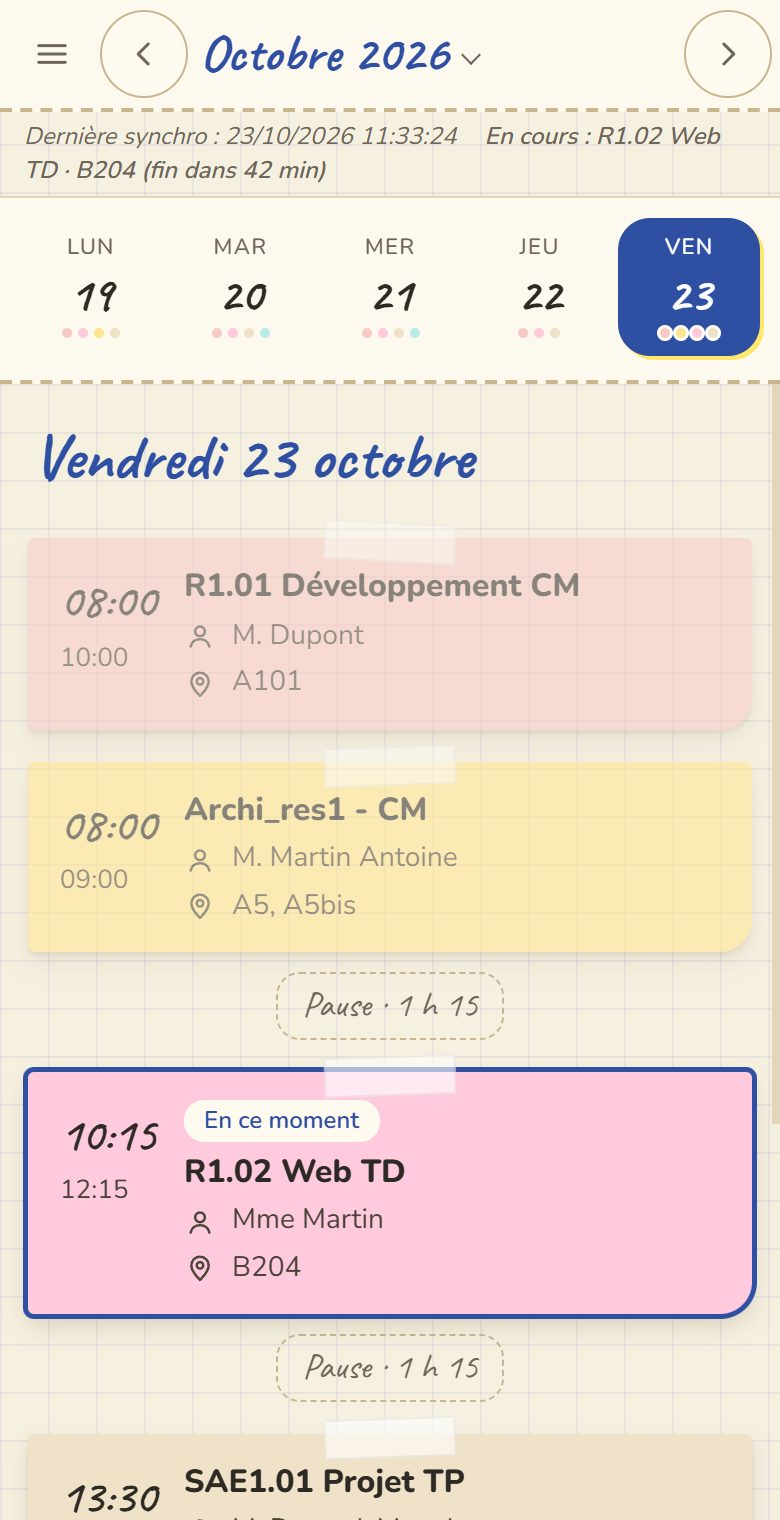
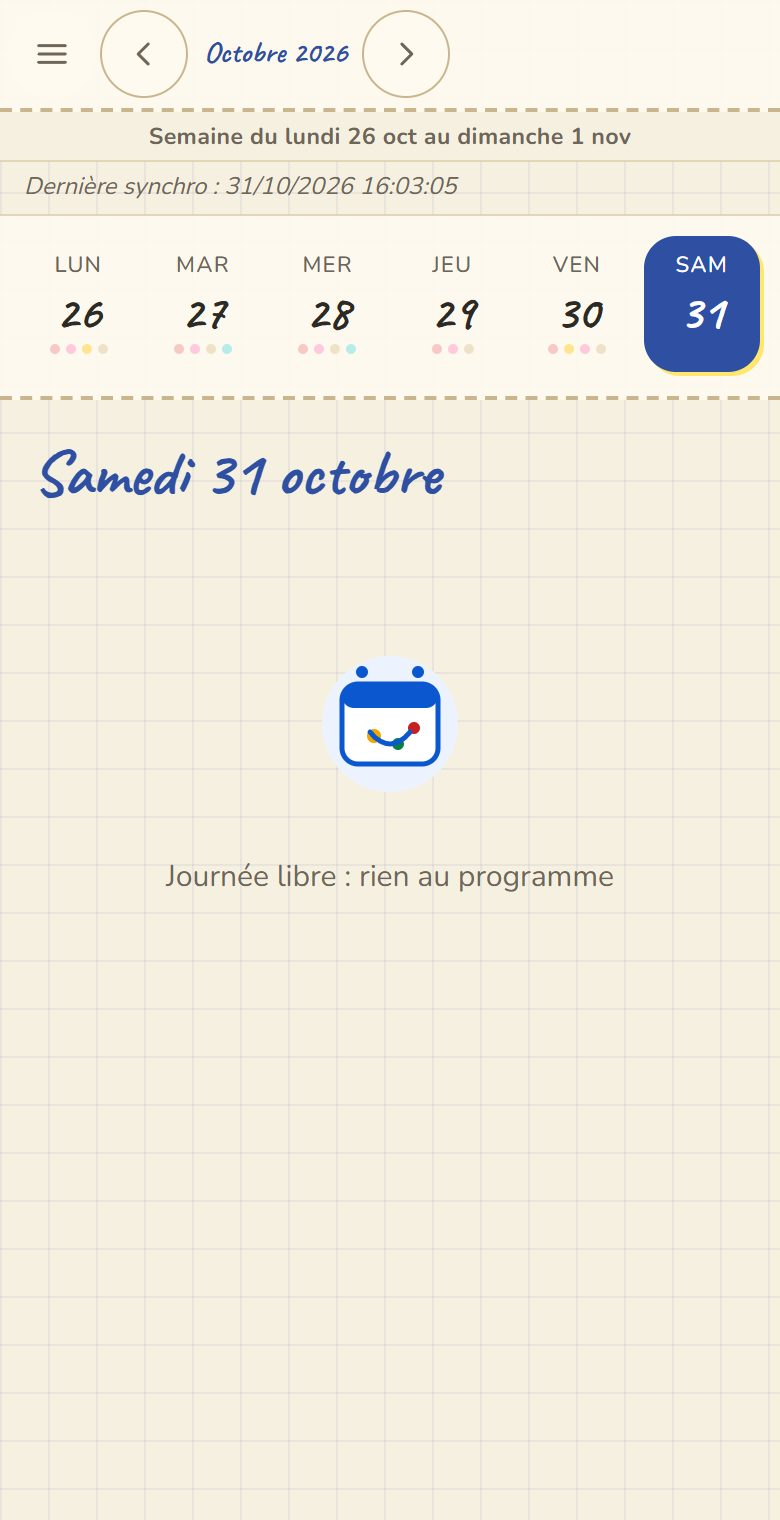
v1.45.3 : design carnet rétabli (post-it pastel), libellé de période accessible
Claude-Session: https://claude.ai/code/session_01PF9gwEzdYJVWuBrC78AG6W

diff --git a/designs/carnet/design.js b/designs/carnet/design.js
@@ -1,48 +1,31 @@
-/* Design Carnet (Style Papeterie & Bloc-notes manuscrit) : Menu riche avec icônes illustrées et dessins manuscrits */
+/* Design carnet : papier crème, écriture manuscrite, cours en post-it pastel (icônes SVG
+   du sprite de chaque page, trait « dessiné » via le filtre #sketch). */
 (function () {
 "use strict";
 
-const ICONS = {
-  book: "notes", clock: "time", calendar: "calendar", user: "user",
-  pin: "pin", note: "pen", chart: "stats", link: "link",
-  mail: "mail", sync: "sync", alert: "lock", key: "lock",
-  logout: "bolt", tasks: "pen", design: "rocket", settings: "gear", filter: "search", export: "calendar", phone: "phone",
-};
+const PASTELS = ["#ffe58f", "#ffc9de", "#c8f0d2", "#c9e4ff", "#e3d4ff", "#ffd8b0", "#d7f0a8", "#b8ece9", "#f8c9c4", "#efe2c8"];
+const svg = (id, cls) => `<svg class="${cls}" aria-hidden="true"><use href="#${id}"/></svg>`;
+const NOTE_BADGE = `<span class="ev-note-badge" title="Tu as écrit une note sur ce cours">${svg("i-note", "ic")}</span>`;
 
 UCA_defineDesign({
-  icon(name, variant) {
-    const file = ICONS[name];
-    return file ? `<img class="gi${variant === "title" ? " lg" : ""}" src="svg/${file}.svg" alt="" style="width:16px;height:16px;vertical-align:-3px;margin-right:6px;filter:sepia(0.5);">` : "";
-  },
+  icon(name) { return svg("i-" + name, "ic sm"); },
+  swatch(i) { return PASTELS[i % PASTELS.length]; },
+  eventColor(key) { return PASTELS[UCA_DESIGN.hashString(key) % PASTELS.length]; },
   noteBadge(context) {
-    return context === "grid"
-      ? `<div class="ev-note" title="Note manuscrite">✏</div>`
-      : `<div class="day-note" title="Note manuscrite">✏</div>`;
+    return context === "grid" ? `<div class="ev-note">${NOTE_BADGE}</div>` : `<div class="day-note">${NOTE_BADGE}</div>`;
   },
   emptyHtml(kind) {
-    return kind === "notes" ? "" : "📖";
+    if (kind === "notes") return `<svg class="sticker" style="width:56px;height:56px;display:block;margin:0 auto 8px" aria-hidden="true"><use href="#s-empty-notes"/></svg>`;
+    return svg(kind === "popup" ? "s-empty-sync" : "s-empty-day", "sticker");
   },
-  grid: { overlap: "side", fontScale: true, metaMerged: false },
-  dayView: "list",
+  grid: { overlap: "side", fontScale: false, metaMerged: true },
+  dayView: "grid",
   text: {
-    view_day: "📖 Mon Carnet du Jour", view_3day: "📆 3 Jours", view_5day: "🗓 5 Jours", view_6day: "🗓 6 Jours",
-    view_week: "📅 Semaine Manuscrite", view_month: "🗓 Calendrier",
-    today: "📌 Aujourd'hui",
-    rawData: "✏ Données du carnet :",
-    noCourse: "Rien d'inscrit au carnet aujourd'hui ☕",
-    teacherPrefix: "✍ Prof : ", roomPrefix: "📍 Salle : ",
-    timeSep: "→",
-    syncing: "📖 Mise à jour du carnet…",
-    loginOpening: "🔑 Connexion au carnet UCA…",
-    "stage_resync": "📖 Vérification du carnet…",
-    "stage_login-opening": "🔑 Page de connexion…",
-    "stage_login-waiting": "⏳ Connexion en cours…",
-    "stage_scraping": "✏ Écriture des cours…",
-    syncOk: "✨ Carnet à jour !",
-    syncSilent: "✨ Carnet synchronisé",
-    errorPrefix: "⚠ ",
-    loggedOut: "Carnet fermé",
-    current: "● Cours en cours",
+    noCourse: "Journée libre : rien au programme",
+    noEvents: "Ton carnet est encore vide.",
+    noEventsHint: "Connecte-toi pour y recopier ton emploi du temps.",
+    current: "En ce moment",
+    loggedOut: "Déconnecté — à bientôt !",
   },
 });
 })();

diff --git a/nouveautes.html b/nouveautes.html
@@ -46,6 +46,9 @@
 <section class="news-item" id="v1-45-2"><h2>1.45.2 <small>écran de mise à jour de l'app qui ne se fermait pas</small></h2>
 <ul><li>L'écran « Nouvelle version détectée » revenait en boucle sur le site et l'app : la version locale était figée à 1.1.0, donc « Mettre à jour » rechargeait sans rien changer. La version appliquée est maintenant mémorisée, et le bouton « Plus tard » (ex-« Mode Test Démo ») repousse l'écran jusqu'à la prochaine version.</li><li>Extension : l'écran n'y est plus chargé (corrigé en 1.45.1). Si tu le vois encore, recharge l'extension après un <code>git pull</code>.</li></ul>
 </section>
+<section class="news-item" id="v1-45-3"><h2>1.45.3 <small>design carnet rétabli</small></h2>
+<ul><li>Le design carnet avait perdu ses post-it pastel (couleurs vives illisibles, texte pâle) : sa palette, ses réglages de grille et ses textes d'origine sont restaurés.</li><li>Accessibilité : le libellé de période de la vue semaine est maintenant repéré par les lecteurs d'écran.</li></ul>
+</section>
 <section class="news-item" id="v1-42-0"><h2>1.42.0 <small>app / PWA (lot 3)</small></h2>
 <p>Déjà en place (vérifié, non refait) : manifeste installable avec icônes maskable et raccourcis, service worker « réseau d'abord » avec repli sur le cache, guide d'installation Android / iPhone au premier lancement, import par lien, QR ou fichier.</p>
 <p>Ajouté :</p>

diff --git a/core/agenda.js b/core/agenda.js
@@ -116,7 +116,7 @@ function updateHeader() {
   let sub = $("weekSubLabel");
   if (!sub) {
     sub = document.createElement("div");
-    sub.id = "weekSubLabel";
+    sub.id = "weekSubLabel"; sub.setAttribute("role", "region"); sub.setAttribute("aria-label", "Période affichée");
     sub.className = "week-sub-label";
     const hdr = document.querySelector("header");
     if (hdr && hdr.nextSibling) hdr.parentNode.insertBefore(sub, hdr.nextSibling);

diff --git a/UPDATES.md b/UPDATES.md
@@ -55,6 +55,11 @@ Ajouté :
 - Design bulletin : il lui manquait ses icônes SVG (page d'aide cassée hors ligne comme en ligne), ajoutées en vert.
 - Doc : `store/PUBLIER.md` explique ce qui dépend de la publication AMO pour la synchro directe sur Firefox Android, et ce qui reste à tester sur un vrai téléphone.
 
+## 1.45.3 — design carnet rétabli
+
+- Le design carnet avait perdu ses post-it pastel (couleurs vives illisibles, texte pâle) : sa palette, ses réglages de grille et ses textes d'origine sont restaurés.
+- Accessibilité : le libellé de période de la vue semaine est maintenant repéré par les lecteurs d'écran.
+
 ## 1.45.2 — écran de mise à jour de l'app qui ne se fermait pas
 
 - L'écran « Nouvelle version détectée » revenait en boucle sur le site et l'app : la version locale était figée à 1.1.0, donc « Mettre à jour » rechargeait sans rien changer. La version appliquée est maintenant mémorisée, et le bouton « Plus tard » (ex-« Mode Test Démo ») repousse l'écran jusqu'à la prochaine version.
